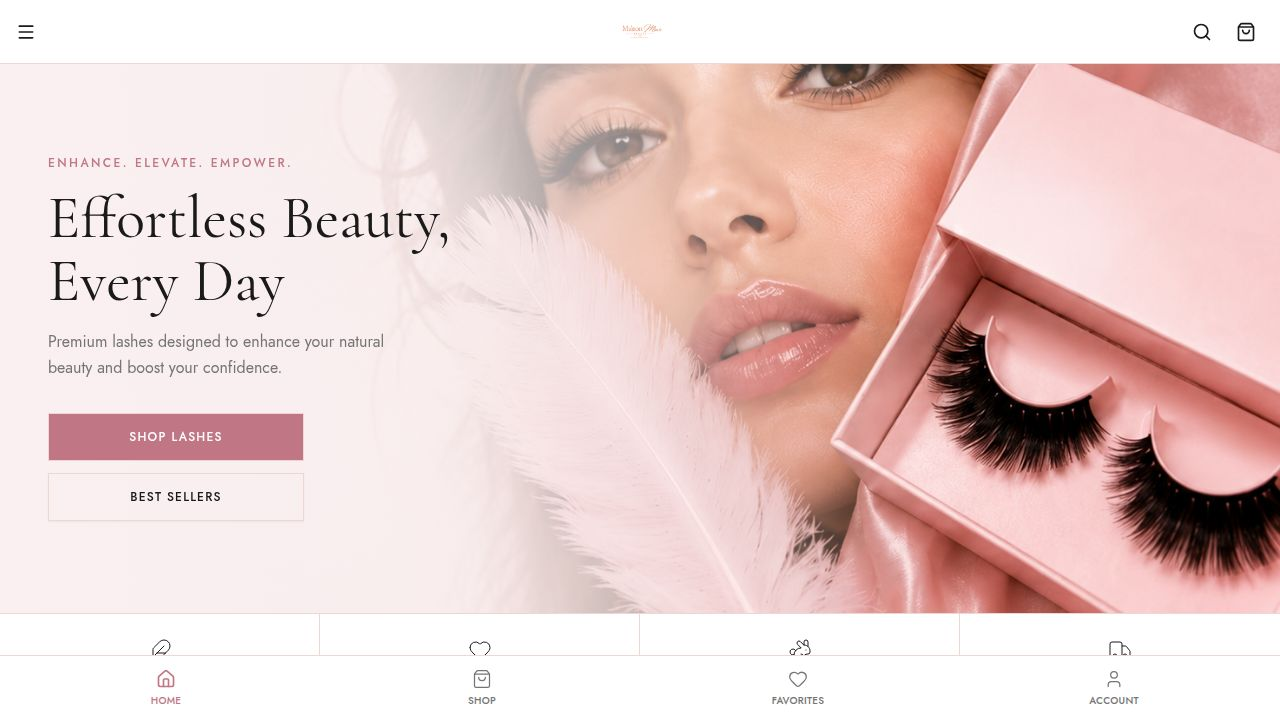
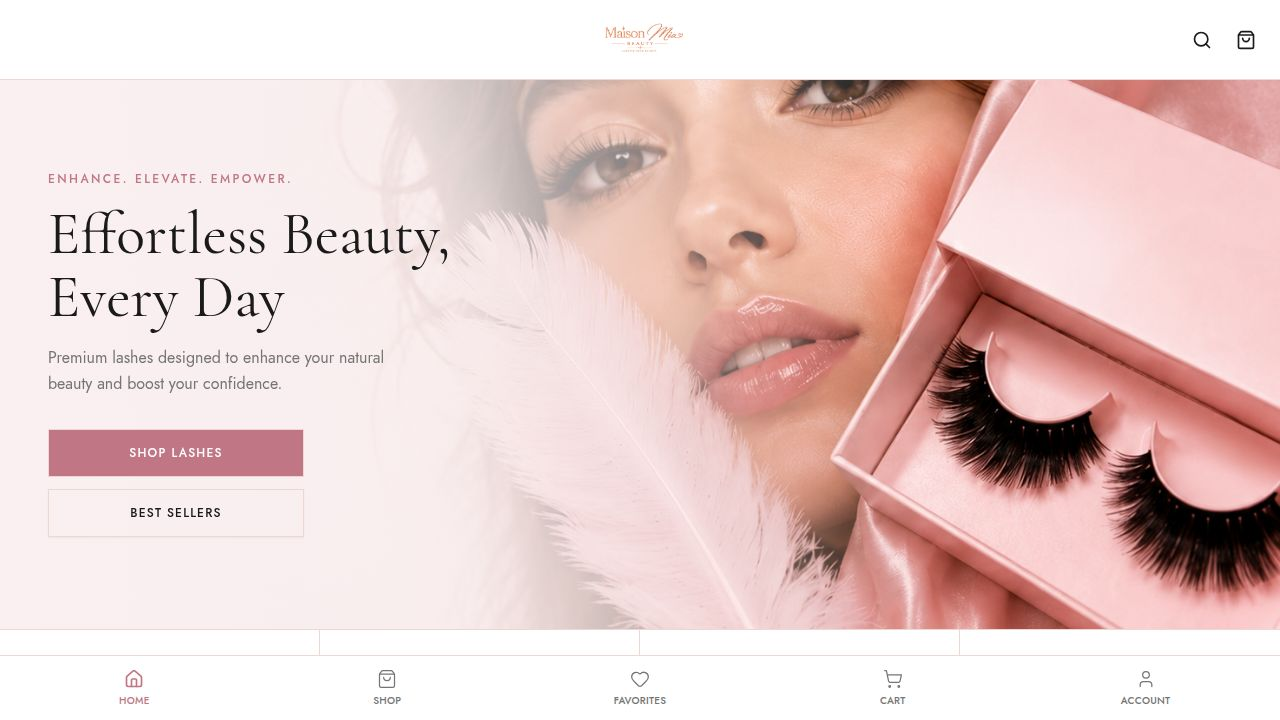
Add product search functionality to the website
Introduces a new search overlay component and integrates it with the header. Implements a searchProducts function in shopify.ts to query the Shopify Storefront API with debounced user input.

Replit-Commit-Author: Agent
Replit-Commit-Session-Id: 23e3a2b2-9684-4aad-8e6e-8a266438a4bd
Replit-Commit-Checkpoint-Type: full_checkpoint
Replit-Commit-Event-Id: 9068e61d-206e-41bb-98da-5d42ed4998e6
Replit-Commit-Screenshot-Url: https://storage.googleapis.com/screenshot-production-us-central1/14e05d1e-6a58-4d8a-99f1-1ebe32ed9119/23e3a2b2-9684-4aad-8e6e-8a266438a4bd/5s14yvv
Replit-Helium-Checkpoint-Created: true

diff --git a/artifacts/beauty-site/src/components/SearchOverlay.tsx b/artifacts/beauty-site/src/components/SearchOverlay.tsx
@@ -1,0 +1,129 @@
+import { useState, useEffect, useRef } from "react";
+import { X, Search, Loader2 } from "lucide-react";
+import { Link } from "wouter";
+import { searchProducts, getProductImage, getProductPrice, ShopifyProduct } from "@/lib/shopify";
+
+interface SearchOverlayProps {
+  open: boolean;
+  onClose: () => void;
+}
+
+export default function SearchOverlay({ open, onClose }: SearchOverlayProps) {
+  const [query, setQuery] = useState("");
+  const [results, setResults] = useState<ShopifyProduct[]>([]);
+  const [loading, setLoading] = useState(false);
+  const [searched, setSearched] = useState(false);
+  const inputRef = useRef<HTMLInputElement>(null);
+  const debounceRef = useRef<ReturnType<typeof setTimeout> | null>(null);
+
+  useEffect(() => {
+    if (open) {
+      setTimeout(() => inputRef.current?.focus(), 100);
+    } else {
+      setQuery("");
+      setResults([]);
+      setSearched(false);
+    }
+  }, [open]);
+
+  useEffect(() => {
+    if (debounceRef.current) clearTimeout(debounceRef.current);
+    if (!query.trim()) {
+      setResults([]);
+      setSearched(false);
+      return;
+    }
+    debounceRef.current = setTimeout(async () => {
+      setLoading(true);
+      setSearched(false);
+      try {
+        const res = await searchProducts(query.trim());
+        setResults(res);
+      } catch {
+        setResults([]);
+      } finally {
+        setLoading(false);
+        setSearched(true);
+      }
+    }, 400);
+    return () => { if (debounceRef.current) clearTimeout(debounceRef.current); };
+  }, [query]);
+
+  if (!open) return null;
+
+  return (
+    <div className="fixed inset-0 z-[100] flex flex-col">
+      <div className="absolute inset-0 bg-black/40 backdrop-blur-sm" onClick={onClose} />
+
+      <div className="relative z-10 bg-white w-full shadow-xl flex flex-col max-h-[85vh]">
+        <div className="flex items-center gap-3 px-4 h-16 border-b border-border">
+          <Search className="w-5 h-5 text-muted-foreground shrink-0" />
+          <input
+            ref={inputRef}
+            type="text"
+            value={query}
+            onChange={(e) => setQuery(e.target.value)}
+            placeholder="ค้นหาสินค้า..."
+            className="flex-1 text-sm outline-none bg-transparent placeholder:text-muted-foreground"
+          />
+          {loading && <Loader2 className="w-4 h-4 text-muted-foreground animate-spin shrink-0" />}
+          <button onClick={onClose} className="p-1 text-muted-foreground hover:text-foreground shrink-0">
+            <X className="w-5 h-5" />
+          </button>
+        </div>
+
+        <div className="overflow-y-auto">
+          {!query.trim() && (
+            <div className="px-4 py-10 text-center text-sm text-muted-foreground">
+              พิมพ์ชื่อสินค้าที่ต้องการค้นหา
+            </div>
+          )}
+
+          {searched && results.length === 0 && !loading && (
+            <div className="px-4 py-10 text-center">
+              <p className="text-sm text-muted-foreground">ไม่พบสินค้าที่ตรงกับ "<span className="text-foreground font-medium">{query}</span>"</p>
+            </div>
+          )}
+
+          {results.length > 0 && (
+            <div className="divide-y divide-border">
+              {results.map((product) => (
+                <Link
+                  key={product.id}
+                  href={`/product/${product.handle}`}
+                  onClick={onClose}
+                  className="flex items-center gap-4 px-4 py-3 hover:bg-secondary/50 transition-colors"
+                >
+                  <div className="w-16 h-16 bg-secondary shrink-0 overflow-hidden rounded">
+                    <img
+                      src={getProductImage(product)}
+                      alt={product.title}
+                      className="w-full h-full object-cover mix-blend-multiply"
+                    />
+                  </div>
+                  <div className="flex-1 min-w-0">
+                    <p className="text-xs font-medium uppercase tracking-wider text-foreground truncate">{product.title}</p>
+                    <p className="text-xs text-muted-foreground mt-0.5">{product.tags?.[0] ?? ""}</p>
+                    <p className="text-sm font-semibold text-foreground mt-1">${getProductPrice(product).toFixed(2)} AUD</p>
+                  </div>
+                </Link>
+              ))}
+            </div>
+          )}
+
+          {results.length > 0 && (
+            <div className="px-4 py-4 border-t border-border">
+              <Link
+                href={`/shop`}
+                onClick={onClose}
+                className="block text-center text-xs font-medium uppercase tracking-widest text-primary hover:text-primary/80 py-2"
+              >
+                ดูสินค้าทั้งหมด →
+              </Link>
+            </div>
+          )}
+        </div>
+      </div>
+    </div>
+  );
+}

diff --git a/artifacts/beauty-site/src/components/Header.tsx b/artifacts/beauty-site/src/components/Header.tsx
@@ -1,34 +1,41 @@
+import { useState } from "react";
 import { Search, ShoppingBag } from "lucide-react";
 import { Link } from "wouter";
 import { useCart } from "@/context/CartContext";
+import SearchOverlay from "@/components/SearchOverlay";
 import logoSrc from "/images/maison-mia-logo.png";
 
 export default function Header() {
   const { itemCount } = useCart();
+  const [searchOpen, setSearchOpen] = useState(false);
 
   return (
-    <header className="sticky top-0 z-50 bg-white border-b border-border h-20 flex items-center px-4 justify-between" data-testid="header">
-      <div className="flex-1" />
+    <>
+      <header className="sticky top-0 z-50 bg-white border-b border-border h-20 flex items-center px-4 justify-between" data-testid="header">
+        <div className="flex-1" />
 
-      <div className="flex-1 flex justify-center">
-        <Link href="/" data-testid="header-logo-link">
-          <img src={logoSrc} alt="Maison Mia" className="h-20 object-contain" />
-        </Link>
-      </div>
+        <div className="flex-1 flex justify-center">
+          <Link href="/" data-testid="header-logo-link">
+            <img src={logoSrc} alt="Maison Mia" className="h-20 object-contain" />
+          </Link>
+        </div>
 
-      <div className="flex-1 flex items-center justify-end gap-2">
-        <button className="p-2" data-testid="btn-search">
-          <Search className="w-5 h-5 text-foreground" />
-        </button>
-        <Link href="/cart" className="p-2 relative" data-testid="header-cart-link">
-          <ShoppingBag className="w-5 h-5 text-foreground" />
-          {itemCount > 0 && (
-            <span className="absolute top-1 right-1 bg-primary text-white text-[9px] font-bold w-[14px] h-[14px] rounded-full flex items-center justify-center">
-              {itemCount}
-            </span>
-          )}
-        </Link>
-      </div>
-    </header>
+        <div className="flex-1 flex items-center justify-end gap-2">
+          <button className="p-2" data-testid="btn-search" onClick={() => setSearchOpen(true)}>
+            <Search className="w-5 h-5 text-foreground" />
+          </button>
+          <Link href="/cart" className="p-2 relative" data-testid="header-cart-link">
+            <ShoppingBag className="w-5 h-5 text-foreground" />
+            {itemCount > 0 && (
+              <span className="absolute top-1 right-1 bg-primary text-white text-[9px] font-bold w-[14px] h-[14px] rounded-full flex items-center justify-center">
+                {itemCount}
+              </span>
+            )}
+          </Link>
+        </div>
+      </header>
+
+      <SearchOverlay open={searchOpen} onClose={() => setSearchOpen(false)} />
+    </>
   );
 }

diff --git a/artifacts/beauty-site/src/lib/shopify.ts b/artifacts/beauty-site/src/lib/shopify.ts
@@ -148,6 +148,24 @@ export async function getProduct(handle: string): Promise<ShopifyProduct | null>
   return data.product ?? null;
 }
 
+export async function searchProducts(query: string): Promise<ShopifyProduct[]> {
+  const gqlQuery = `
+    ${PRODUCT_FRAGMENT}
+    query SearchProducts($query: String!) {
+      products(first: 10, query: $query) {
+        edges {
+          node {
+            ...ProductFields
+          }
+        }
+      }
+    }
+  `;
+
+  const data = await shopifyFetch<ProductsData>(gqlQuery, { query });
+  return data.products.edges.map((e) => e.node);
+}
+
 export async function createCheckout(
   lines: { merchandiseId: string; quantity: number }[]
 ): Promise<string> {